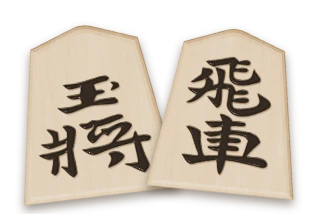
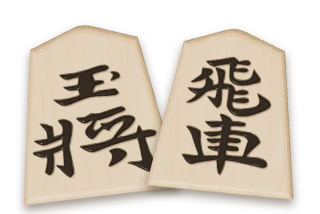
将棋3D駒：水無瀬の歩兵・香車・桂馬・金将・王将を調整
Claude-Session: https://claude.ai/code/session_01EiWRAWLV8eg6m15v5x8gee

Changed region(s): [[0.0938, 0.2804, 0.5, 0.8411]]

diff --git a/atlas/lazy.js b/atlas/lazy.js
@@ -5,7 +5,7 @@
      AtlasLazy.has3D(id) / hasPlay(id) / hasRules(id) — known before loading; AtlasLazy.loaded(id) */
 (function () {
 'use strict';
-const G = {"reversi": ["games/reversi.js?v=40", "rules/reversi.js?v=14"], "shogi": ["models/shogi.js?v=61", "games/shogi-play.js?v=33", "games/shogi.js?v=14", "rules/shogi.js?v=21"], "chess": ["models/chess.js?v=16", "games/chess.js?v=15", "rules/chess.js?v=7"], "backgammon": ["models/backgammon.js?v=118", "games/backgammon.js?v=22", "rules/backgammon.js?v=11"], "gomoku": ["models/goban.js?v=14", "games/gomoku.js?v=12", "rules/gomoku.js?v=9"], "go": ["models/goban.js?v=14", "games/go.js?v=7", "rules/go.js?v=7"], "hex": ["models/goban.js?v=14", "models/hex.js?v=2", "games/hex.js?v=6", "rules/hex.js?v=6"], "tafl": ["games/tafl.js?v=15", "rules/tafl.js?v=7"], "xiangqi": ["models/xiangqi.js?v=4", "games/xiangqi.js?v=13", "rules/xiangqi.js?v=6"], "janggi": ["models/xiangqi.js?v=4", "models/janggi.js?v=3", "games/janggi.js?v=5", "rules/janggi.js?v=2"], "checkers": ["models/checkers.js?v=17", "games/checkers.js?v=8", "rules/checkers.js?v=4"], "ugolki": ["models/checkers.js?v=17", "models/ugolki.js?v=4", "games/ugolki.js?v=8", "rules/ugolki.js?v=8"], "morris": ["models/morris.js?v=7", "games/morris-pieces.js?v=2", "games/morris.js?v=7", "rules/morris.js?v=5"], "connect4": ["models/connect4.js?v=5", "games/connect4-tiles.js?v=1", "games/connect4.js?v=5", "rules/connect4.js?v=3"], "mancala": ["models/mancala.js?v=5", "games/mancala.js?v=10", "rules/mancala.js?v=4"], "dots": ["models/dots.js?v=4", "games/dots.js?v=9", "rules/dots.js?v=3"], "ur": ["models/ur-dice.js?v=2", "models/ur.js?v=4", "games/ur-kit.js?v=15", "games/ur.js?v=11", "rules/ur.js?v=16"], "fanorona": ["models/fanorona.js?v=4", "games/fanorona.js?v=6", "rules/fanorona.js?v=8"], "konane": ["models/konane.js?v=7", "games/konane.js?v=11", "rules/konane.js?v=5"], "amazons": ["models/amazons.js?v=7", "games/amazons.js?v=10", "rules/amazons.js?v=4"], "senet": ["models/ur-dice.js?v=2", "models/senet.js?v=10", "games/senet-kit.js?v=5", "games/senet.js?v=16", "rules/senet.js?v=8"], "agon": ["models/agon.js?v=4", "games/agon.js?v=11", "rules/agon.js?v=5"], "alquerque": ["models/alquerque.js?v=3", "rules/alquerque.js?v=6"], "ludo": ["../ludo/engine.js?v=3", "../ludo/house.js?v=7", "../ludo/board2d.js?v=7", "../ludo/board-art.js?v=3", "models/ludo.js?v=10", "games/ludo.js?v=28", "rules/ludo.js?v=3"], "carrom": ["../carrom/engine.js?v=6", "models/carrom.js?v=17", "games/carrom.js?v=37", "rules/carrom.js?v=8"], "crokinole": ["../carrom/engine.js?v=6", "games/carrom.js?v=37", "../crokinole/engine.js?v=3", "models/crokinole.js?v=12", "games/crokinole.js?v=14", "rules/crokinole.js?v=4"], "hockey": ["../hockey/engine.js?v=13", "models/hockey.js?v=8", "games/hockey.js?v=19", "rules/hockey.js?v=7"], "peg": ["../peg/engine.js?v=1", "../peg/i18n.js?v=6", "models/peg.js?v=6", "games/peg.js?v=1", "rules/peg.js?v=4"]};
+const G = {"reversi": ["games/reversi.js?v=40", "rules/reversi.js?v=14"], "shogi": ["models/shogi.js?v=62", "games/shogi-play.js?v=33", "games/shogi.js?v=14", "rules/shogi.js?v=21"], "chess": ["models/chess.js?v=16", "games/chess.js?v=15", "rules/chess.js?v=7"], "backgammon": ["models/backgammon.js?v=118", "games/backgammon.js?v=22", "rules/backgammon.js?v=11"], "gomoku": ["models/goban.js?v=14", "games/gomoku.js?v=12", "rules/gomoku.js?v=9"], "go": ["models/goban.js?v=14", "games/go.js?v=7", "rules/go.js?v=7"], "hex": ["models/goban.js?v=14", "models/hex.js?v=2", "games/hex.js?v=6", "rules/hex.js?v=6"], "tafl": ["games/tafl.js?v=15", "rules/tafl.js?v=7"], "xiangqi": ["models/xiangqi.js?v=4", "games/xiangqi.js?v=13", "rules/xiangqi.js?v=6"], "janggi": ["models/xiangqi.js?v=4", "models/janggi.js?v=3", "games/janggi.js?v=5", "rules/janggi.js?v=2"], "checkers": ["models/checkers.js?v=17", "games/checkers.js?v=8", "rules/checkers.js?v=4"], "ugolki": ["models/checkers.js?v=17", "models/ugolki.js?v=4", "games/ugolki.js?v=8", "rules/ugolki.js?v=8"], "morris": ["models/morris.js?v=7", "games/morris-pieces.js?v=2", "games/morris.js?v=7", "rules/morris.js?v=5"], "connect4": ["models/connect4.js?v=5", "games/connect4-tiles.js?v=1", "games/connect4.js?v=5", "rules/connect4.js?v=3"], "mancala": ["models/mancala.js?v=5", "games/mancala.js?v=10", "rules/mancala.js?v=4"], "dots": ["models/dots.js?v=4", "games/dots.js?v=9", "rules/dots.js?v=3"], "ur": ["models/ur-dice.js?v=2", "models/ur.js?v=4", "games/ur-kit.js?v=15", "games/ur.js?v=11", "rules/ur.js?v=16"], "fanorona": ["models/fanorona.js?v=4", "games/fanorona.js?v=6", "rules/fanorona.js?v=8"], "konane": ["models/konane.js?v=7", "games/konane.js?v=11", "rules/konane.js?v=5"], "amazons": ["models/amazons.js?v=7", "games/amazons.js?v=10", "rules/amazons.js?v=4"], "senet": ["models/ur-dice.js?v=2", "models/senet.js?v=10", "games/senet-kit.js?v=5", "games/senet.js?v=16", "rules/senet.js?v=8"], "agon": ["models/agon.js?v=4", "games/agon.js?v=11", "rules/agon.js?v=5"], "alquerque": ["models/alquerque.js?v=3", "rules/alquerque.js?v=6"], "ludo": ["../ludo/engine.js?v=3", "../ludo/house.js?v=7", "../ludo/board2d.js?v=7", "../ludo/board-art.js?v=3", "models/ludo.js?v=10", "games/ludo.js?v=28", "rules/ludo.js?v=3"], "carrom": ["../carrom/engine.js?v=6", "models/carrom.js?v=17", "games/carrom.js?v=37", "rules/carrom.js?v=8"], "crokinole": ["../carrom/engine.js?v=6", "games/carrom.js?v=37", "../crokinole/engine.js?v=3", "models/crokinole.js?v=12", "games/crokinole.js?v=14", "rules/crokinole.js?v=4"], "hockey": ["../hockey/engine.js?v=13", "models/hockey.js?v=8", "games/hockey.js?v=19", "rules/hockey.js?v=7"], "peg": ["../peg/engine.js?v=1", "../peg/i18n.js?v=6", "models/peg.js?v=6", "games/peg.js?v=1", "rules/peg.js?v=4"]};
 const F = {"reversi": {"t3": true, "play": true, "rules": true}, "shogi": {"t3": true, "play": true, "rules": true}, "chess": {"t3": true, "play": true, "rules": true}, "backgammon": {"t3": true, "play": true, "rules": true}, "gomoku": {"t3": true, "play": true, "rules": true}, "go": {"t3": true, "play": true, "rules": true}, "hex": {"t3": true, "play": true, "rules": true}, "tafl": {"t3": true, "play": true, "rules": true}, "xiangqi": {"t3": true, "play": true, "rules": true}, "janggi": {"t3": true, "play": true, "rules": true}, "checkers": {"t3": true, "play": true, "rules": true}, "ugolki": {"t3": true, "play": true, "rules": true}, "morris": {"t3": true, "play": true, "rules": true}, "connect4": {"t3": true, "play": true, "rules": true}, "mancala": {"t3": true, "play": true, "rules": true}, "dots": {"t3": true, "play": true, "rules": true}, "ur": {"t3": true, "play": true, "rules": true}, "fanorona": {"t3": true, "play": true, "rules": true}, "konane": {"t3": true, "play": true, "rules": true}, "amazons": {"t3": true, "play": true, "rules": true}, "senet": {"t3": true, "play": true, "rules": true}, "agon": {"t3": true, "play": true, "rules": true}, "alquerque": {"t3": true, "play": false, "rules": true}, "ludo": {"t3": true, "play": true, "rules": true}, "carrom": {"t3": true, "play": true, "rules": true}, "crokinole": {"t3": true, "play": true, "rules": true}, "hockey": {"t3": true, "play": true, "rules": true}, "peg": {"t3": true, "play": true, "rules": true}};
 const done = new Set(), loading = new Map(), ok = new Set();
 function load(src) {

diff --git a/dots/index.html b/dots/index.html
@@ -2299,7 +2299,7 @@ document.querySelector('#rsResume').onclick = () => { document.querySelector('#r
   const f = document.createElement('link'); f.rel = 'stylesheet'; f.href = 'https://fonts.googleapis.com/css2?family=RocknRoll+One&family=Zen+Maru+Gothic:wght@500;700;900&family=Fredoka:wght@600;700&family=Kalam:wght@400;700&family=Zen+Kurenaido&family=Nanum+Pen+Script&family=Long+Cang&family=Aref+Ruqaa:wght@700&display=swap'; document.head.appendChild(f);   // (Kalam … Aref Ruqaa: the handwritten box initials and tally on the notebook page)
   const load = src => new Promise((res, rej) => { const s = document.createElement('script'); s.src = src; s.onload = res; s.onerror = rej; document.body.appendChild(s); });
   if (window.AtlasLoading) { AtlasLoading.show(); setTimeout(() => AtlasLoading.hide(), 12000); }   // safety net
-  load('https://cdnjs.cloudflare.com/ajax/libs/three.js/r128/three.min.js').then(() => load('../atlas/img/tex/baked.js?v=1')).then(() => load('../atlas/table3d.js?v=152')).then(() => load('../atlas/tables3d.js?v=81')).then(() => load('../atlas/skin/common.js?v=71')).then(() => load('../atlas/models/dots.js?v=3l14')).then(() => load('../atlas/skin/dots.js?v=7l14'))
+  load('https://cdnjs.cloudflare.com/ajax/libs/three.js/r128/three.min.js').then(() => load('../atlas/img/tex/baked.js?v=1')).then(() => load('../atlas/table3d.js?v=152')).then(() => load('../atlas/tables3d.js?v=82')).then(() => load('../atlas/skin/common.js?v=71')).then(() => load('../atlas/models/dots.js?v=3l14')).then(() => load('../atlas/skin/dots.js?v=7l14'))
     .catch(() => { document.documentElement.classList.remove('atlas-skin'); if (window.AtlasLoading) AtlasLoading.hide(); });
 })();
 </script>

diff --git a/ur/index.html b/ur/index.html
@@ -1029,7 +1029,7 @@ html:not([lang=ja]):not([lang=zh]):not([lang="zh-TW"]):not([lang=ko]) .result-bi
   const f = document.createElement('link'); f.rel = 'stylesheet'; f.href = 'https://fonts.googleapis.com/css2?family=RocknRoll+One&family=Zen+Maru+Gothic:wght@500;700;900&family=Fredoka:wght@600;700&display=swap'; document.head.appendChild(f);
   const load = src => new Promise((res, rej) => { const s = document.createElement('script'); s.src = src; s.onload = res; s.onerror = rej; document.body.appendChild(s); });
   if (window.AtlasLoading) { AtlasLoading.show(); setTimeout(() => AtlasLoading.hide(), 12000); }   // safety net
-  load('https://cdnjs.cloudflare.com/ajax/libs/three.js/r128/three.min.js').then(() => load('../atlas/img/tex/baked.js?v=1')).then(() => load('../atlas/table3d.js?v=152')).then(() => load('../atlas/tables3d.js?v=81')).then(() => load('../atlas/skin/common.js?v=71')).then(() => load('../atlas/models/ur-dice.js?v=2l14')).then(() => load('../atlas/models/ur.js?v=3l14')).then(() => load('../atlas/skin/ur.js?v=14l14'))
+  load('https://cdnjs.cloudflare.com/ajax/libs/three.js/r128/three.min.js').then(() => load('../atlas/img/tex/baked.js?v=1')).then(() => load('../atlas/table3d.js?v=152')).then(() => load('../atlas/tables3d.js?v=82')).then(() => load('../atlas/skin/common.js?v=71')).then(() => load('../atlas/models/ur-dice.js?v=2l14')).then(() => load('../atlas/models/ur.js?v=3l14')).then(() => load('../atlas/skin/ur.js?v=14l14'))
     .catch(() => { const u = new URL(location.href); u.searchParams.delete('skin'); location.replace(u.href); });   // (the 3D files are missing: the plain 2D page)
 })();
 </script>

diff --git a/connect4/index.html b/connect4/index.html
@@ -3390,7 +3390,7 @@ document.addEventListener('keydown', e => {
   const f = document.createElement('link'); f.rel = 'stylesheet'; f.href = 'https://fonts.googleapis.com/css2?family=RocknRoll+One&family=Zen+Maru+Gothic:wght@500;700;900&family=Fredoka:wght@600;700&display=swap'; document.head.appendChild(f);
   const load = src => new Promise((res, rej) => { const s = document.createElement('script'); s.src = src; s.onload = res; s.onerror = rej; document.body.appendChild(s); });
   if (window.AtlasLoading) { AtlasLoading.show(); setTimeout(() => AtlasLoading.hide(), 12000); }   // safety net
-  load('https://cdnjs.cloudflare.com/ajax/libs/three.js/r128/three.min.js').then(() => load('../atlas/img/tex/baked.js?v=1')).then(() => load('../atlas/table3d.js?v=152')).then(() => load('../atlas/tables3d.js?v=81')).then(() => load('../atlas/skin/common.js?v=71')).then(() => load('../atlas/models/connect4.js?v=5l14')).then(() => load('../atlas/games/connect4-tiles.js?v=1l14')).then(() => load('../atlas/skin/connect4.js?v=6l14-aim'))
+  load('https://cdnjs.cloudflare.com/ajax/libs/three.js/r128/three.min.js').then(() => load('../atlas/img/tex/baked.js?v=1')).then(() => load('../atlas/table3d.js?v=152')).then(() => load('../atlas/tables3d.js?v=82')).then(() => load('../atlas/skin/common.js?v=71')).then(() => load('../atlas/models/connect4.js?v=5l14')).then(() => load('../atlas/games/connect4-tiles.js?v=1l14')).then(() => load('../atlas/skin/connect4.js?v=6l14-aim'))
     .catch(() => { document.documentElement.classList.remove('atlas-skin'); if (window.AtlasLoading) AtlasLoading.hide(); });
 })();
 </script>

diff --git a/morris/index.html b/morris/index.html
@@ -3897,7 +3897,7 @@ window.addEventListener('resize', () => renderFx());
   const f = document.createElement('link'); f.rel = 'stylesheet'; f.href = 'https://fonts.googleapis.com/css2?family=RocknRoll+One&family=Zen+Maru+Gothic:wght@500;700;900&family=Fredoka:wght@600;700&display=swap'; document.head.appendChild(f);
   const load = src => new Promise((res, rej) => { const s = document.createElement('script'); s.src = src; s.onload = res; s.onerror = rej; document.body.appendChild(s); });
   if (window.AtlasLoading) { AtlasLoading.show(); setTimeout(() => AtlasLoading.hide(), 12000); }   // safety net
-  load('https://cdnjs.cloudflare.com/ajax/libs/three.js/r128/three.min.js').then(() => load('../atlas/img/tex/baked.js?v=1')).then(() => load('../atlas/table3d.js?v=152')).then(() => load('../atlas/tables3d.js?v=81')).then(() => load('../atlas/skin/common.js?v=71')).then(() => load('../atlas/models/morris.js?v=6l14')).then(() => load('../atlas/games/morris-pieces.js?v=2l14')).then(() => load('../atlas/skin/morris.js?v=6l15'))
+  load('https://cdnjs.cloudflare.com/ajax/libs/three.js/r128/three.min.js').then(() => load('../atlas/img/tex/baked.js?v=1')).then(() => load('../atlas/table3d.js?v=152')).then(() => load('../atlas/tables3d.js?v=82')).then(() => load('../atlas/skin/common.js?v=71')).then(() => load('../atlas/models/morris.js?v=6l14')).then(() => load('../atlas/games/morris-pieces.js?v=2l14')).then(() => load('../atlas/skin/morris.js?v=6l15'))
     .catch(() => { document.documentElement.classList.remove('atlas-skin'); if (window.AtlasLoading) AtlasLoading.hide(); });
 })();
 </script>

diff --git a/senet/index.html b/senet/index.html
@@ -1030,7 +1030,7 @@ html:not([lang=ja]):not([lang=zh]):not([lang=zh-TW]):not([lang=ko]) .result-big{
   const f = document.createElement('link'); f.rel = 'stylesheet'; f.href = 'https://fonts.googleapis.com/css2?family=RocknRoll+One&family=Zen+Maru+Gothic:wght@500;700;900&family=Fredoka:wght@600;700&display=swap'; document.head.appendChild(f);
   const load = src => new Promise((res, rej) => { const s = document.createElement('script'); s.src = src; s.onload = res; s.onerror = rej; document.body.appendChild(s); });
   if (window.AtlasLoading) { AtlasLoading.show(); setTimeout(() => AtlasLoading.hide(), 12000); }   // safety net
-  load('https://cdnjs.cloudflare.com/ajax/libs/three.js/r128/three.min.js').then(() => load('../atlas/img/tex/baked.js?v=1')).then(() => load('../atlas/table3d.js?v=152')).then(() => load('../atlas/tables3d.js?v=81')).then(() => load('../atlas/skin/common.js?v=71')).then(() => load('../atlas/models/senet.js?v=10l14')).then(() => load('../atlas/skin/senet.js?v=10l14'))
+  load('https://cdnjs.cloudflare.com/ajax/libs/three.js/r128/three.min.js').then(() => load('../atlas/img/tex/baked.js?v=1')).then(() => load('../atlas/table3d.js?v=152')).then(() => load('../atlas/tables3d.js?v=82')).then(() => load('../atlas/skin/common.js?v=71')).then(() => load('../atlas/models/senet.js?v=10l14')).then(() => load('../atlas/skin/senet.js?v=10l14'))
     .catch(() => { const u = new URL(location.href); u.searchParams.delete('skin'); location.replace(u.href); });   // (the 3D files are missing: the plain 2D page)
 })();
 </script>

diff --git a/fanorona/index.html b/fanorona/index.html
@@ -1687,7 +1687,7 @@ body.lt-on .reserve .onb.on{border-color:var(--accent);box-shadow:0 0 0 1px var(
   const f = document.createElement('link'); f.rel = 'stylesheet'; f.href = 'https://fonts.googleapis.com/css2?family=RocknRoll+One&family=Zen+Maru+Gothic:wght@500;700;900&family=Fredoka:wght@600;700&display=swap'; document.head.appendChild(f);
   const load = src => new Promise((res, rej) => { const s = document.createElement('script'); s.src = src; s.onload = res; s.onerror = rej; document.body.appendChild(s); });
   if (window.AtlasLoading) { AtlasLoading.show(); setTimeout(() => AtlasLoading.hide(), 12000); }   // safety net
-  load('https://cdnjs.cloudflare.com/ajax/libs/three.js/r128/three.min.js').then(() => load('../atlas/img/tex/baked.js?v=1')).then(() => load('../atlas/table3d.js?v=152')).then(() => load('../atlas/tables3d.js?v=81')).then(() => load('../atlas/skin/common.js?v=71')).then(() => load('../atlas/models/fanorona.js?v=3l14')).then(() => load('../atlas/skin/fanorona.js?v=6l14'))
+  load('https://cdnjs.cloudflare.com/ajax/libs/three.js/r128/three.min.js').then(() => load('../atlas/img/tex/baked.js?v=1')).then(() => load('../atlas/table3d.js?v=152')).then(() => load('../atlas/tables3d.js?v=82')).then(() => load('../atlas/skin/common.js?v=71')).then(() => load('../atlas/models/fanorona.js?v=3l14')).then(() => load('../atlas/skin/fanorona.js?v=6l14'))
     .catch(() => { document.documentElement.classList.remove('atlas-skin'); if (window.AtlasLoading) AtlasLoading.hide(); });
 })();
 </script>

diff --git a/mancala/index.html b/mancala/index.html
@@ -1586,7 +1586,7 @@ html[data-sk=ocean] .seed{box-shadow:0 calc(var(--u) * .025) calc(var(--u) * .04
   const f = document.createElement('link'); f.rel = 'stylesheet'; f.href = 'https://fonts.googleapis.com/css2?family=RocknRoll+One&family=Zen+Maru+Gothic:wght@500;700;900&family=Fredoka:wght@600;700&display=swap'; document.head.appendChild(f);
   const load = src => new Promise((res, rej) => { const s = document.createElement('script'); s.src = src; s.onload = res; s.onerror = rej; document.body.appendChild(s); });
   if (window.AtlasLoading) { AtlasLoading.show(); setTimeout(() => AtlasLoading.hide(), 12000); }   // safety net
-  load('https://cdnjs.cloudflare.com/ajax/libs/three.js/r128/three.min.js').then(() => load('../atlas/img/tex/baked.js?v=1')).then(() => load('../atlas/table3d.js?v=152')).then(() => load('../atlas/tables3d.js?v=81')).then(() => load('../atlas/skin/common.js?v=71')).then(() => load('../atlas/models/mancala.js?v=4l14')).then(() => load('../atlas/skin/mancala.js?v=10l14'))
+  load('https://cdnjs.cloudflare.com/ajax/libs/three.js/r128/three.min.js').then(() => load('../atlas/img/tex/baked.js?v=1')).then(() => load('../atlas/table3d.js?v=152')).then(() => load('../atlas/tables3d.js?v=82')).then(() => load('../atlas/skin/common.js?v=71')).then(() => load('../atlas/models/mancala.js?v=4l14')).then(() => load('../atlas/skin/mancala.js?v=10l14'))
     .catch(() => { document.documentElement.classList.remove('atlas-skin'); if (window.AtlasLoading) AtlasLoading.hide(); });
 })();
 </script>

diff --git a/gomoku/index.html b/gomoku/index.html
@@ -1445,7 +1445,7 @@ body.skin-ink .st.b{background:radial-gradient(circle at 34% 28%,#8a8f98 0%,#3c4
   const f = document.createElement('link'); f.rel = 'stylesheet'; f.href = 'https://fonts.googleapis.com/css2?family=RocknRoll+One&family=Zen+Maru+Gothic:wght@500;700;900&family=Fredoka:wght@600;700&display=swap'; document.head.appendChild(f);
   const load = src => new Promise((res, rej) => { const s = document.createElement('script'); s.src = src; s.onload = res; s.onerror = rej; document.body.appendChild(s); });
   if (window.AtlasLoading) { AtlasLoading.show(); setTimeout(() => AtlasLoading.hide(), 12000); }   // safety net
-  load('https://cdnjs.cloudflare.com/ajax/libs/three.js/r128/three.min.js').then(() => load('../atlas/img/tex/baked.js?v=1')).then(() => load('../atlas/table3d.js?v=152')).then(() => load('../atlas/tables3d.js?v=81')).then(() => load('../atlas/skin/common.js?v=71')).then(() => load('../atlas/models/goban.js?v=11l14')).then(() => load('../atlas/skin/gomoku.js?v=4l14'))
+  load('https://cdnjs.cloudflare.com/ajax/libs/three.js/r128/three.min.js').then(() => load('../atlas/img/tex/baked.js?v=1')).then(() => load('../atlas/table3d.js?v=152')).then(() => load('../atlas/tables3d.js?v=82')).then(() => load('../atlas/skin/common.js?v=71')).then(() => load('../atlas/models/goban.js?v=11l14')).then(() => load('../atlas/skin/gomoku.js?v=4l14'))
     .catch(() => { document.documentElement.classList.remove('atlas-skin'); if (window.AtlasLoading) AtlasLoading.hide(); });
 })();
 </script>

diff --git a/ugolki/index.html b/ugolki/index.html
@@ -1393,7 +1393,7 @@ html:is([data-bd=gzhel],[data-bd=birch]) .reserve .rsv-plate .rsv-w:not(.hot) b{
   const f = document.createElement('link'); f.rel = 'stylesheet'; f.href = 'https://fonts.googleapis.com/css2?family=RocknRoll+One&family=Zen+Maru+Gothic:wght@500;700;900&family=Fredoka:wght@600;700&display=swap'; document.head.appendChild(f);
   const load = src => new Promise((res, rej) => { const s = document.createElement('script'); s.src = src; s.onload = res; s.onerror = rej; document.body.appendChild(s); });
   if (window.AtlasLoading) { AtlasLoading.show(); setTimeout(() => AtlasLoading.hide(), 12000); }   // safety net
-  load('https://cdnjs.cloudflare.com/ajax/libs/three.js/r128/three.min.js').then(() => load('../atlas/img/tex/baked.js?v=1')).then(() => load('../atlas/table3d.js?v=152')).then(() => load('../atlas/tables3d.js?v=81')).then(() => load('../atlas/skin/common.js?v=71')).then(() => load('../atlas/models/ugolki.js?v=4l14')).then(() => load('../atlas/skin/ugolki.js?v=2l14'))
+  load('https://cdnjs.cloudflare.com/ajax/libs/three.js/r128/three.min.js').then(() => load('../atlas/img/tex/baked.js?v=1')).then(() => load('../atlas/table3d.js?v=152')).then(() => load('../atlas/tables3d.js?v=82')).then(() => load('../atlas/skin/common.js?v=71')).then(() => load('../atlas/models/ugolki.js?v=4l14')).then(() => load('../atlas/skin/ugolki.js?v=2l14'))
     .catch(() => { document.documentElement.classList.remove('atlas-skin'); if (window.AtlasLoading) AtlasLoading.hide(); });
 })();
 </script>

diff --git a/alquerque/index.html b/alquerque/index.html
@@ -1689,7 +1689,7 @@ window.OL_VARIANTS = ['alq', 'alqf']; window.OL_DB_PREFIX = 'alq/';
   const f = document.createElement('link'); f.rel = 'stylesheet'; f.href = 'https://fonts.googleapis.com/css2?family=RocknRoll+One&family=Zen+Maru+Gothic:wght@500;700;900&family=Fredoka:wght@600;700&display=swap'; document.head.appendChild(f);
   const load = src => new Promise((res, rej) => { const s = document.createElement('script'); s.src = src; s.onload = res; s.onerror = rej; document.body.appendChild(s); });
   if (window.AtlasLoading) { AtlasLoading.show(); setTimeout(() => AtlasLoading.hide(), 12000); }   // safety net
-  load('https://cdnjs.cloudflare.com/ajax/libs/three.js/r128/three.min.js').then(() => load('../atlas/img/tex/baked.js?v=1')).then(() => load('../atlas/table3d.js?v=152')).then(() => load('../atlas/tables3d.js?v=81')).then(() => load('../atlas/skin/common.js?v=71')).then(() => load('../atlas/models/alquerque.js?v=3l14')).then(() => load('../atlas/skin/fanorona.js?v=6l14'))
+  load('https://cdnjs.cloudflare.com/ajax/libs/three.js/r128/three.min.js').then(() => load('../atlas/img/tex/baked.js?v=1')).then(() => load('../atlas/table3d.js?v=152')).then(() => load('../atlas/tables3d.js?v=82')).then(() => load('../atlas/skin/common.js?v=71')).then(() => load('../atlas/models/alquerque.js?v=3l14')).then(() => load('../atlas/skin/fanorona.js?v=6l14'))
     .catch(() => { document.documentElement.classList.remove('atlas-skin'); if (window.AtlasLoading) AtlasLoading.hide(); });
 })();
 </script>

diff --git a/chess/index.html b/chess/index.html
@@ -1589,7 +1589,7 @@ body.in-online .coach,body.in-online #btnMistakes{display:none!important}
   const f = document.createElement('link'); f.rel = 'stylesheet'; f.href = 'https://fonts.googleapis.com/css2?family=RocknRoll+One&family=Zen+Maru+Gothic:wght@500;700;900&family=Fredoka:wght@600;700&display=swap'; document.head.appendChild(f);
   const load = src => new Promise((res, rej) => { const s = document.createElement('script'); s.src = src; s.onload = res; s.onerror = rej; document.body.appendChild(s); });
   if (window.AtlasLoading) { AtlasLoading.show(); setTimeout(() => AtlasLoading.hide(), 12000); }   // safety net
-  load('https://cdnjs.cloudflare.com/ajax/libs/three.js/r128/three.min.js').then(() => load('../atlas/img/tex/baked.js?v=1')).then(() => load('../atlas/table3d.js?v=152')).then(() => load('../atlas/tables3d.js?v=81')).then(() => load('../atlas/skin/common.js?v=71')).then(() => load('../atlas/models/chess.js?v=16l14')).then(() => load('../atlas/skin/chess.js?v=11l14'))
+  load('https://cdnjs.cloudflare.com/ajax/libs/three.js/r128/three.min.js').then(() => load('../atlas/img/tex/baked.js?v=1')).then(() => load('../atlas/table3d.js?v=152')).then(() => load('../atlas/tables3d.js?v=82')).then(() => load('../atlas/skin/common.js?v=71')).then(() => load('../atlas/models/chess.js?v=16l14')).then(() => load('../atlas/skin/chess.js?v=11l14'))
     .catch(() => { document.documentElement.classList.remove('atlas-skin'); if (window.AtlasLoading) AtlasLoading.hide(); });
 })();
 </script>
